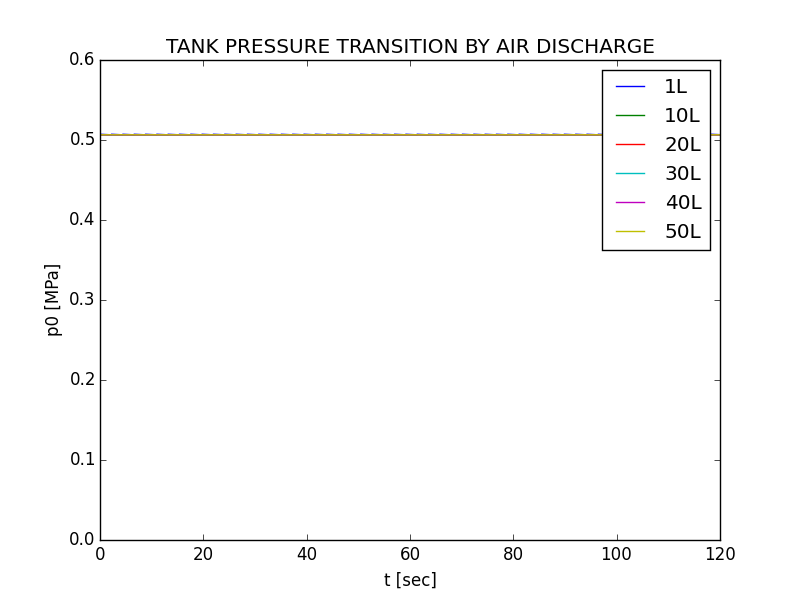
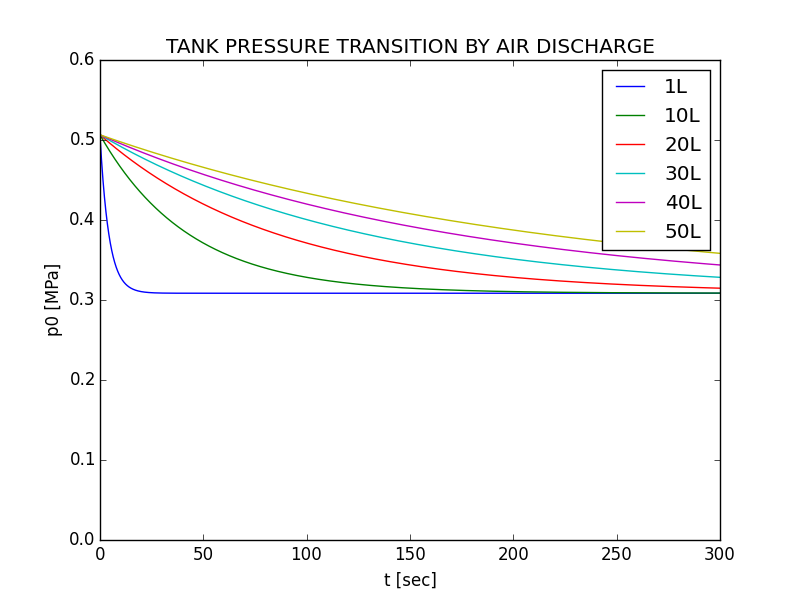
fix

diff --git a/main.py b/main.py
@@ -11,9 +11,11 @@ R0 = 8.314 #(J/mol dot K)
 T0 = 24 + 273.15 #[K}
 R = R0/M
 DISCHARGE_AIR = 42 #[l/min], ref:http://www.airbrush.co.jp/shop/products/detail.php?product_id=1296
-Vs1 = DISCHARGE_AIR*0.001/60 #[m3/s]
+Vs1 = DISCHARGE_AIR*0.001/60.0 #[m3/s]
 #DISCHARGE
-de = 2 #[mm]
+# de = 2 #[mm]
+de = 1.7 #[mm]
+# de = 6 #[mm]
 Ae = pi*(de*0.001/2)*(de*0.001/2)#[m2]
 R_kg = 289 # J/(kg dot K)
 # V = 1/1000.0 #1L as [m3]
@@ -21,7 +23,7 @@ sigma = sqrt(gamma*((2/(gamma+1))**((gamma+1)/(gamma-1)))) # critical flow effic
 ##### PARAMETER AREA END ############
 
 dt = 0.01 #[sec]
-tTotal = 120 #[sec]
+tTotal = 300 #[sec]
 # V = 1/1000.0 #[m3]: 1L
 V_array = [1/1000.0,10/1000.0,20/1000.0,30/1000.0,40/1000.0,50/1000.0]
 # V_array = [1/1000.0,20/1000.0,50/1000.0]
@@ -32,17 +34,19 @@ for V in V_array:
     pt = np.array([])
     pt = np.append(pt,p0i) 
     ts = np.array([0])
-    k1 = ((R*T0)/V) * ((Ae*sigma)/(sqrt(R_kg*T0))) #working nice
+    k1 = ((R*T0)/V) * ((Ae*sigma)/(sqrt(R_kg*T0))) *1000 # x1000 is because of mass unit: kgram or gram
     # k1 = ((R*T0)/V) * ((Ae*sigma)/(sqrt(R_kg*T0))) #working bad, this is default 
     k2 = pa * Vs1 / V
     for i in xrange(int(tTotal/dt)):
         p_n = pt[-1]
         if p_n >= p0i:
             p_n_dot =  (-1.0)*k1*p_n
-            # print 'compressor halted: ',i
+            p_n_dot_dot =  (-1.0)*k1*p_n_dot
+            print 'compressor halted: ',i
         else:
             p_n_dot =  (-1.0)*k1*p_n + k2
-        p_n_1 = p_n + p_n_dot * dt
+            p_n_dot_dot =  (-1.0)*k1*p_n_dot
+        p_n_1 = p_n + p_n_dot * dt + p_n_dot_dot*dt*dt
         pt = np.append(pt,p_n_1)
         ts = np.append(ts,dt*i)
     
@@ -54,6 +58,6 @@ legend(('1L','10L','20L','30L','40L','50L'),'upper right')
 xlabel('t [sec]')
 ylabel('p0 [MPa]')
 ylim([0,0.6])
-savefig('./image/result-3.png')
+savefig('./image/final_pressure_depends_on_discharge_hole_size.png')
 show()
 

diff --git a/balance.py b/balance.py
@@ -1,0 +1,15 @@
+from pylab import *
+gamma = 1.4
+pa = 0.1013*(10**6) #[Pa]
+de = 2 #[mm]
+Ae = pi*(de*0.001/2)*(de*0.001/2)#[m2]
+T0 = (24 + 273.15) # Room temperature
+R = 289 # J/(kg dot K)
+V = 1/1000.0 #1L as [m3]
+sigma = sqrt(gamma*((2/(gamma+1))**((gamma+1)/(gamma-1)))) # critical flow efficient
+Vs = 42/60.0*0.001 #[m3] 
+
+a = sqrt((R*T0)**3)
+b = (Ae*sigma*Vs*pa) #* (10**-6) #[MPa]
+p_tank = a/b
+print a,b,p_tank
